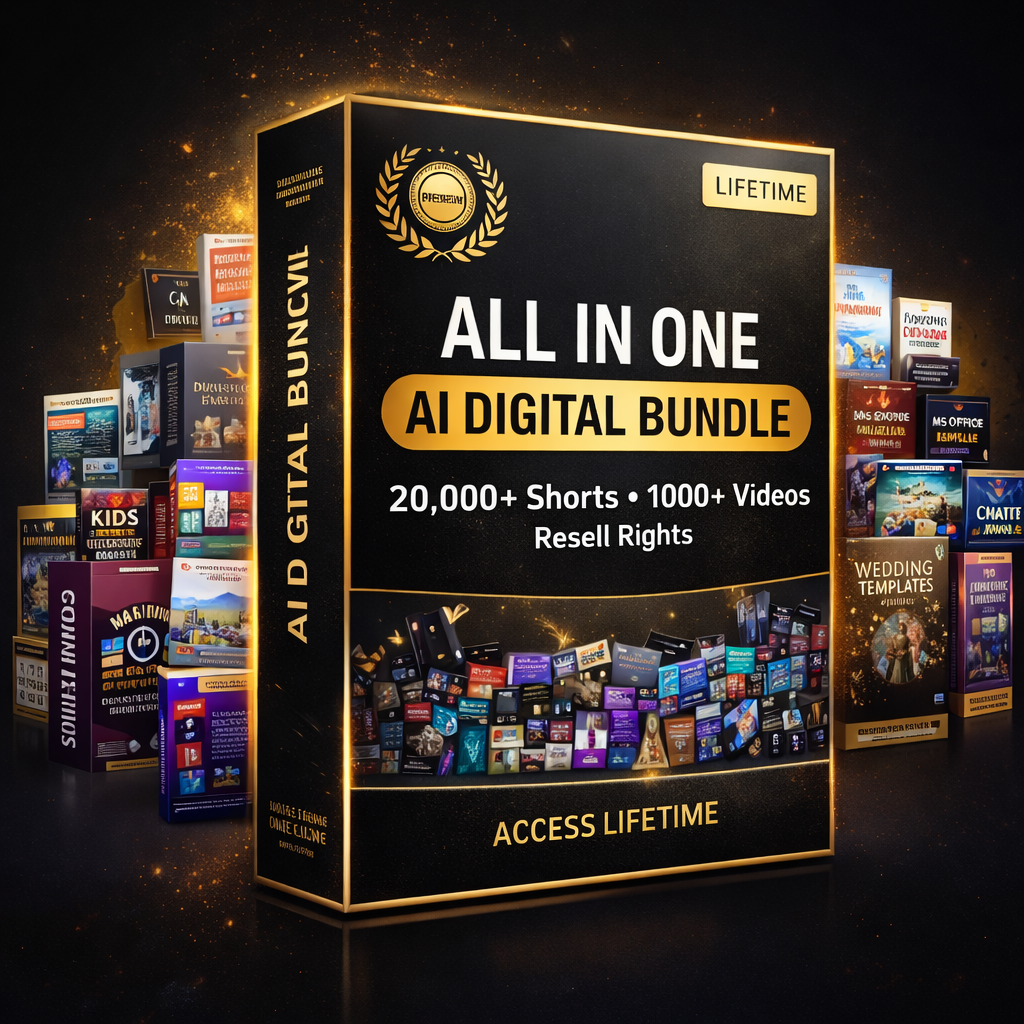
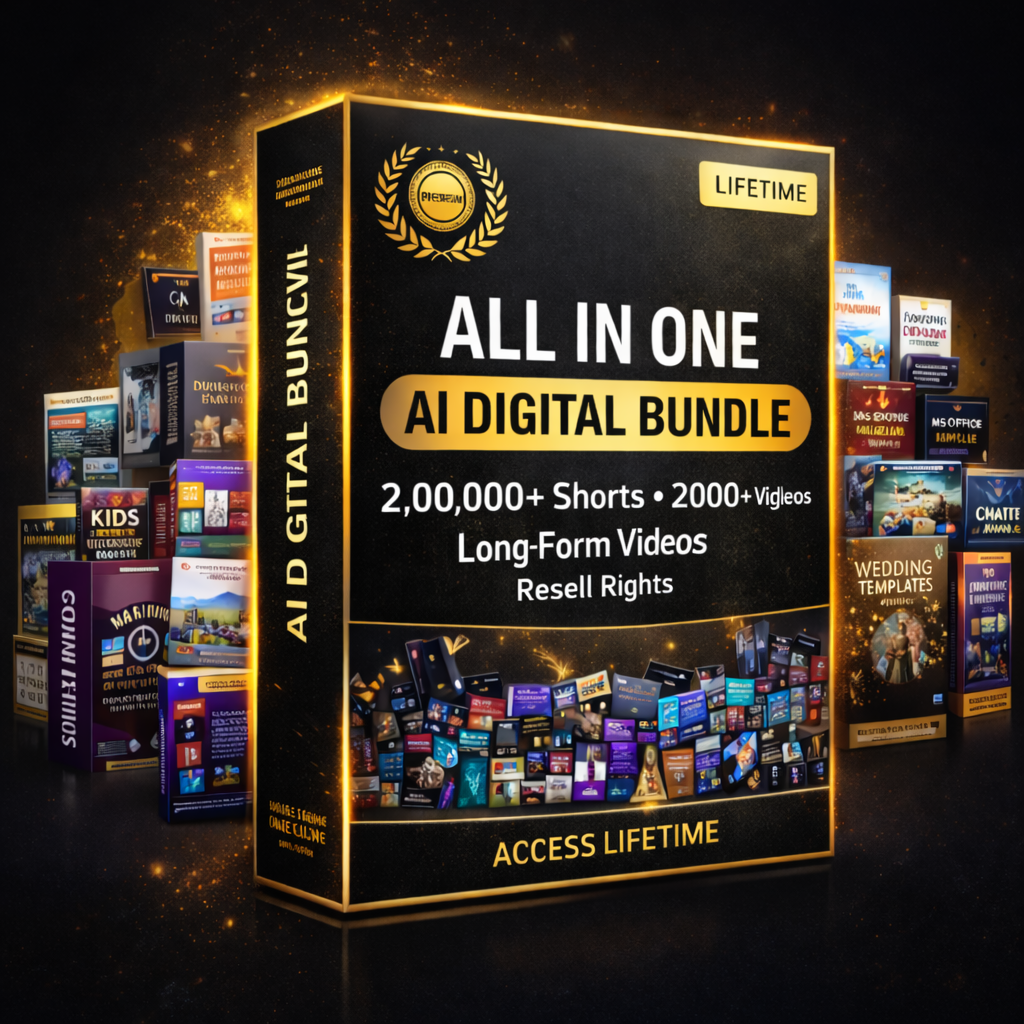
enhancements

diff --git a/src/components/Hero.jsx b/src/components/Hero.jsx
@@ -15,12 +15,12 @@ const Hero = () => {
         {/* LEFT CONTENT */}
         <div>
           <h1 className="text-4xl md:text-6xl font-bold leading-tight">
-            Launch Your Digital Business With <span className="text-[#FFD700]">AI Digital Library</span>
+            2,00,000+ Shorts  1000+ Long Videos <span className="text-[#FFD700]">Full Resell Rights </span> Lifetime Access
           </h1>
 
-          <p className="mt-6 text-lg text-gray-300">
+          {/* <p className="mt-6 text-lg text-gray-300">
             2,00,000+ Shorts • 1000+ Long Videos • Full Resell Rights • Lifetime Access
-          </p>
+          </p> */}
 
           <p className="mt-4 text-sm text-gray-400">
             Built for Indian creators to grow consistent income from Instagram, YouTube, and TikTok.
@@ -28,14 +28,20 @@ const Hero = () => {
 
           {/* PRICE BLOCK */}
           <div className="mt-8 space-y-2">
-            <p className="text-gray-400 line-through text-2xl">₹2999</p>
-            <p className="text-4xl md:text-5xl font-bold text-[#FFD700]">₹499</p>
-            <p className="text-green-400 text-lg">
+            <p className="text-gray-400 line-through text-2xl">₹8999</p>
+            <p className="text-4xl md:text-5xl font-bold text-[#FFD700]">₹199</p>
+            {/* <p className="text-green-400 text-lg">
               Extra ₹50 OFF with Promo 
+            </p> */}
+            <p className="text-red-400 text-lg">
+              Offer is limited for today only, don't miss the chance to grab this deal.
             </p>
           </div>
 
           {/* CTA BUTTON */}
+          <p className="text-sm text-gray-400 mt-4">
+            ⚡ Only 127 slots left at our Database for this sale, Hurry Up!
+          </p>
           <button
             onClick={handleBuy}
             className="mt-8 bg-[#FFD700] text-black font-bold px-10 py-4 rounded-xl hover:scale-105 transition duration-300 shadow-lg"

diff --git a/src/components/Pricing.jsx b/src/components/Pricing.jsx
@@ -12,13 +12,13 @@ const Pricing = () => {
   const [promo, setPromo] = useState("");
   const [discountApplied, setDiscountApplied] = useState(false);
 const [finalOverridePrice, setFinalOverridePrice] = useState(null);
-  const originalPrice = 2999;
-  const salePrice = 499;
+  const originalPrice = 8999;
+  const salePrice = 199;
   const finalPrice =
   finalOverridePrice !== null
     ? finalOverridePrice
     : discountApplied
-    ? 449
+    ? 199
     : salePrice;
   const [email, setEmail] = useState("");
    const [modalMessage, setModalMessage] = useState("");
@@ -265,7 +265,7 @@ cashfree.checkout({
 </div>
           {!discountApplied && (
             <div className="text-sm text-purple-400">
-              Use code START50 for extra ₹50 off
+              (Optional) have you a promocode to apply? Enter above and click Apply.
             </div>
           )}
 

diff --git a/src/components/MonetizeChannels.jsx b/src/components/MonetizeChannels.jsx
@@ -20,8 +20,15 @@ const MonetizeChannels = () => {
         <h2 className="text-3xl md:text-4xl font-bold text-center mb-4">
           Monetize Your Channels With <span className="text-[#FFD700]">Consistency</span>
         </h2>
-        <p className="text-gray-400 text-center max-w-3xl mx-auto mb-14">
+        <p className="text-gray-400 text-center max-w-3xl mx-auto ">
           Build a repeatable posting system across Instagram, YouTube, and TikTok so each week moves you closer to stable income.
+        </p>
+        <p className="text-red-400 text-center max-w-3xl mx-auto mb-14">
+          🔥 Launch Offer Ending Soon <br />
+Join 11,000+ creators who already downloaded the vault.
+<br />
+
+⏳ Offer expires in 24 hours
         </p>
 
         <div className="grid md:grid-cols-3 gap-8">

diff --git a/src/components/PreviewSection.jsx b/src/components/PreviewSection.jsx
@@ -7,7 +7,7 @@ const PreviewSection = () => {
 
     
     {
-      title: "Premium Animated High-Quality Videos Templates",
+      title: "2000+ Premium Animated High-Quality Videos, Templates",
       desc: "Ready-made animated longform videos for YouTube, ads and social media content. Fully customizable and easy to edit. Copyright free unique vedios delivers to every new buyers, so no copyright occures.",
       worth: "₹19,000",
       image: Library1,

diff --git a/src/components/SocialProof.jsx b/src/components/SocialProof.jsx
@@ -5,6 +5,9 @@ const SocialProof = () => {
         11,000+ Digital Creators Joined
       </h3>
       <p className="text-gray-400 mt-3">
+       4.8 ⭐ average rating from creators
+      </p>
+      <p className="text-gray-400 mt-3">
         Early buyers are already reselling and scaling their pages.
       </p>
     </section>

diff --git a/src/components/LibraryBreakdown.jsx b/src/components/LibraryBreakdown.jsx
@@ -25,7 +25,7 @@ const LibraryBreakdown = () => {
         </div>
 
         <p className="text-[#FFD700] font-bold text-xl mt-12">
-          Total Library Worth ₹40,500+ — Today Only ₹599
+          Total Library Worth ₹40,500+ — Today Only ₹199
         </p>
 
       </div>

diff --git a/src/pages/Home.jsx b/src/pages/Home.jsx
@@ -43,7 +43,7 @@ const Home = () => {
     }
     className="bg-[#FFD700] text-black font-bold px-6 py-3 rounded-xl shadow-lg hover:scale-105 transition"
   >
-    Get Access – ₹499
+    Get Access – ₹199
   </button>
 </div>
     </div>
